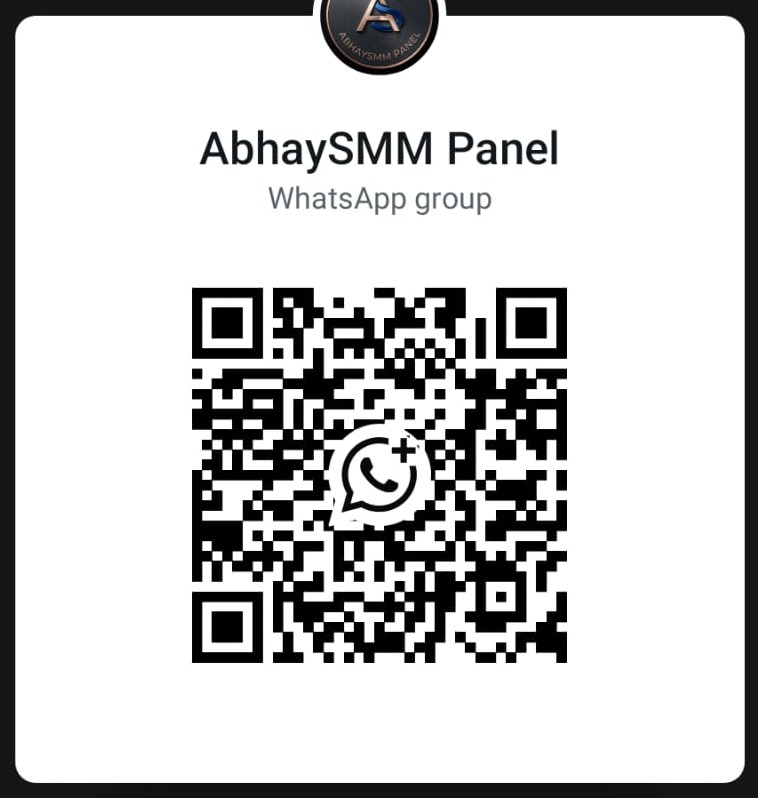
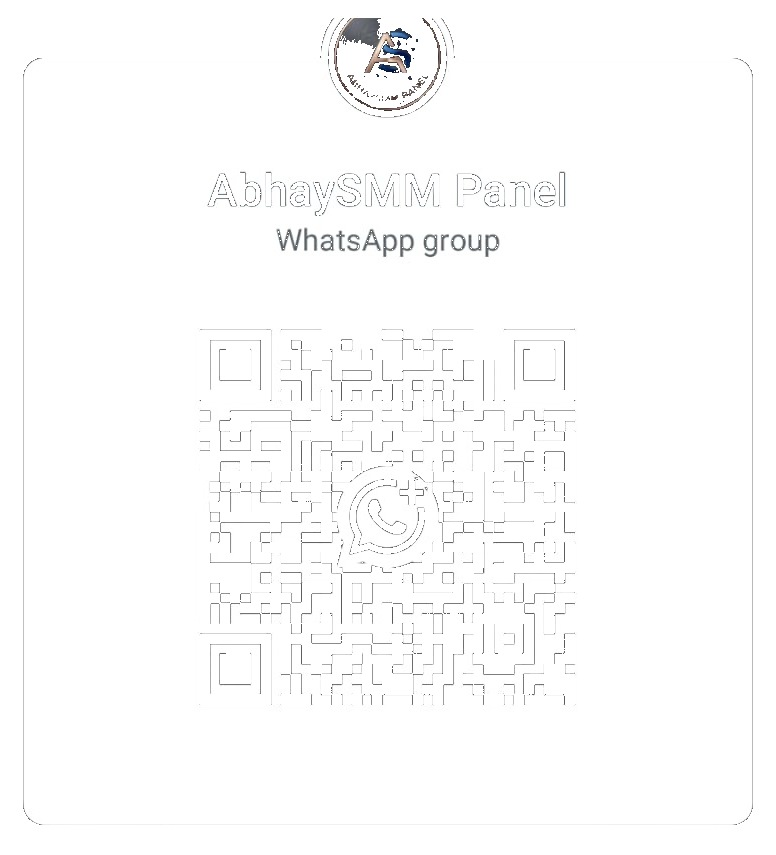
Fix WhatsApp join popup QR image and modal design.
Tight white QR card, clean frame, and cache-bust so the old phone screenshot is gone.

Changed region(s): [[0.2427, 0.3609, 0.7586, 0.8421], [0.0, 0.0, 1.0, 1.0]]

diff --git a/src/styles/whatsappGroupPopup.css b/src/styles/whatsappGroupPopup.css
@@ -2,10 +2,6 @@
 
 #whatsapp-group-join-popup.wa-join-popup {
   position: fixed !important;
-  top: 0 !important;
-  right: 0 !important;
-  bottom: 0 !important;
-  left: 0 !important;
   inset: 0 !important;
   z-index: 2147483000 !important;
   display: flex !important;
@@ -15,10 +11,10 @@
   height: 100dvh !important;
   min-height: 100vh !important;
   margin: 0 !important;
-  padding: max(1rem, env(safe-area-inset-top, 0px))
-    max(1rem, env(safe-area-inset-right, 0px))
-    max(1rem, env(safe-area-inset-bottom, 0px))
-    max(1rem, env(safe-area-inset-left, 0px)) !important;
+  padding: max(0.85rem, env(safe-area-inset-top, 0px))
+    max(0.85rem, env(safe-area-inset-right, 0px))
+    max(0.85rem, env(safe-area-inset-bottom, 0px))
+    max(0.85rem, env(safe-area-inset-left, 0px)) !important;
   box-sizing: border-box !important;
   opacity: 0;
   pointer-events: none;
@@ -37,31 +33,29 @@
   border: none;
   padding: 0;
   margin: 0;
-  background: rgba(2, 8, 23, 0.78);
-  backdrop-filter: blur(8px);
-  -webkit-backdrop-filter: blur(8px);
+  background: rgba(2, 8, 23, 0.8);
+  backdrop-filter: blur(10px);
+  -webkit-backdrop-filter: blur(10px);
   cursor: pointer;
 }
 
 #whatsapp-group-join-popup .wa-join-popup__card {
   position: relative;
   z-index: 1;
-  width: min(100%, 22.5rem);
-  max-height: min(90dvh, 40rem);
+  width: min(100%, 21rem);
+  max-height: min(92dvh, 38rem);
   overflow: auto;
   margin: 0 auto;
-  padding: 1.35rem 1.25rem 1.25rem;
-  border-radius: 1.15rem;
-  background: linear-gradient(160deg, #0b1f17 0%, #0f172a 48%, #07111f 100%);
-  border: 1px solid rgba(37, 211, 102, 0.35);
-  box-shadow:
-    0 24px 64px rgba(0, 0, 0, 0.55),
-    0 0 40px rgba(37, 211, 102, 0.12);
+  padding: 1.25rem 1.15rem 1.15rem;
+  border-radius: 1.25rem;
+  background: #0f172a;
+  border: 1px solid rgba(37, 211, 102, 0.28);
+  box-shadow: 0 20px 48px rgba(0, 0, 0, 0.5);
   text-align: center;
-  /* Center pop: scale only — no slide from top */
-  transform: scale(0.92);
-  opacity: 0.85;
+  transform: scale(0.94);
+  opacity: 0.9;
   transition: transform 200ms ease, opacity 200ms ease;
+  -webkit-overflow-scrolling: touch;
 }
 
 #whatsapp-group-join-popup.wa-join-popup--visible .wa-join-popup__card {
@@ -71,10 +65,10 @@
 
 #whatsapp-group-join-popup .wa-join-popup__close {
   position: absolute;
-  top: 0.45rem;
-  right: 0.45rem;
-  width: 2rem;
-  height: 2rem;
+  top: 0.55rem;
+  right: 0.55rem;
+  width: 2.1rem;
+  height: 2.1rem;
   border: none;
   border-radius: 999px;
   background: rgba(255, 255, 255, 0.08);
@@ -85,6 +79,7 @@
   display: flex;
   align-items: center;
   justify-content: center;
+  z-index: 2;
 }
 
 #whatsapp-group-join-popup .wa-join-popup__close:hover {
@@ -92,58 +87,80 @@
 }
 
 #whatsapp-group-join-popup .wa-join-popup__badge {
-  display: inline-block;
-  margin-bottom: 0.55rem;
-  padding: 0.2rem 0.65rem;
+  display: inline-flex;
+  align-items: center;
+  justify-content: center;
+  gap: 0.35rem;
+  margin: 0.15rem 0 0.65rem;
+  padding: 0.28rem 0.7rem;
   border-radius: 999px;
   font-size: 0.7rem;
   font-weight: 800;
-  letter-spacing: 0.08em;
+  letter-spacing: 0.06em;
   text-transform: uppercase;
   color: #dcfce7;
-  background: rgba(37, 211, 102, 0.18);
-  border: 1px solid rgba(37, 211, 102, 0.35);
+  background: rgba(37, 211, 102, 0.16);
+  border: 1px solid rgba(37, 211, 102, 0.32);
 }
 
 #whatsapp-group-join-popup .wa-join-popup__title {
-  margin: 0 0 0.45rem;
-  font-size: clamp(1.15rem, 4vw, 1.35rem);
+  margin: 0 0 0.4rem;
+  font-size: clamp(1.15rem, 4.2vw, 1.35rem);
   font-weight: 800;
   color: #f8fafc;
   line-height: 1.25;
-  padding-inline: 1.25rem;
+  padding-inline: 1.5rem;
 }
 
 #whatsapp-group-join-popup .wa-join-popup__text {
-  margin: 0 0 1rem;
-  font-size: 0.9rem;
+  margin: 0 0 0.95rem;
+  font-size: 0.875rem;
   line-height: 1.5;
   color: #94a3b8;
+  padding-inline: 0.25rem;
 }
 
-/* Cropped QR card asset (no tall phone letterboxing) */
+/* White frame — image sits flush, no dark letterbox */
+#whatsapp-group-join-popup .wa-join-popup__qr-wrap {
+  width: min(100%, 13.5rem);
+  margin: 0 auto 0.65rem;
+  padding: 0.4rem;
+  border-radius: 1rem;
+  background: #fff;
+  border: 1px solid rgba(226, 232, 240, 0.9);
+  box-shadow: 0 8px 24px rgba(0, 0, 0, 0.25);
+  box-sizing: border-box;
+}
+
 #whatsapp-group-join-popup .wa-join-popup__qr {
   display: block;
-  width: min(100%, 12rem);
+  width: 100%;
   height: auto;
-  aspect-ratio: 758 / 798;
-  margin: 0 auto 0.65rem;
-  padding: 0.45rem;
-  border-radius: 0.85rem;
-  border: 1px solid rgba(148, 163, 184, 0.25);
+  aspect-ratio: 776 / 855;
+  margin: 0;
+  padding: 0;
+  border: none;
+  border-radius: 0.65rem;
   background: #fff;
   object-fit: contain;
   object-position: center;
-  box-sizing: border-box;
+}
+
+#whatsapp-group-join-popup .wa-join-popup__hint {
+  margin: 0 0 0.9rem;
+  font-size: 0.75rem;
+  line-height: 1.35;
+  color: #94a3b8;
 }
 
 #whatsapp-group-join-popup .wa-join-popup__cta {
   display: inline-flex;
   align-items: center;
   justify-content: center;
+  gap: 0.5rem;
   width: 100%;
-  min-height: 2.75rem;
-  padding: 0.65rem 1rem;
+  min-height: 2.85rem;
+  padding: 0.7rem 1rem;
   border-radius: 999px;
   background: #25d366;
   color: #fff;
@@ -151,7 +168,7 @@
   font-weight: 800;
   text-decoration: none;
   box-shadow: 0 4px 14px rgba(37, 211, 102, 0.28);
-  transition: transform 0.18s ease, box-shadow 0.18s ease, filter 0.18s ease;
+  transition: transform 0.15s ease, box-shadow 0.15s ease, filter 0.15s ease;
 }
 
 #whatsapp-group-join-popup .wa-join-popup__cta:hover {
@@ -162,10 +179,23 @@
   text-decoration: none;
 }
 
-#whatsapp-group-join-popup .wa-join-popup__hint {
-  margin: 0 0 1rem;
-  font-size: 0.75rem;
-  color: #64748b;
+#whatsapp-group-join-popup .wa-join-popup__cta:active {
+  transform: translateY(0);
+}
+
+@media (max-width: 420px) {
+  #whatsapp-group-join-popup .wa-join-popup__card {
+    width: min(100%, 20rem);
+    padding: 1.1rem 0.95rem 1rem;
+  }
+
+  #whatsapp-group-join-popup .wa-join-popup__qr-wrap {
+    width: min(100%, 12.25rem);
+  }
+
+  #whatsapp-group-join-popup .wa-join-popup__cta {
+    min-height: 3rem;
+  }
 }
 
 @media (prefers-reduced-motion: reduce) {

diff --git a/src/components/WhatsAppGroupPopup.js b/src/components/WhatsAppGroupPopup.js
@@ -10,6 +10,8 @@ const STORAGE_KEY = 'abhaysmm_wa_join_popup_dismissed_at';
 const DISMISS_MS = 24 * 60 * 60 * 1000;
 const SHOW_DELAY_MS = 900;
 const POPUP_ID = 'whatsapp-group-join-popup';
+/** Bump when QR asset changes so browsers skip stale cache. */
+const QR_CACHE_BUST = 'v3';
 
 function wasDismissedRecently() {
   try {
@@ -44,12 +46,21 @@ const PUBLIC_PATHS = new Set([
   '/contact',
 ]);
 
+const WhatsAppIcon = ({ size = 18 }) => (
+  <svg width={size} height={size} viewBox="0 0 24 24" aria-hidden="true" focusable="false">
+    <path
+      fill="currentColor"
+      d="M17.472 14.382c-.297-.149-1.758-.867-2.03-.967-.273-.099-.471-.148-.67.15-.197.297-.767.966-.94 1.164-.173.199-.347.223-.644.075-.297-.15-1.255-.463-2.39-1.475-.883-.788-1.48-1.761-1.653-2.059-.173-.297-.018-.458.13-.606.134-.133.298-.347.446-.52.149-.174.198-.298.298-.497.099-.198.05-.371-.025-.52-.075-.149-.669-1.612-.916-2.207-.242-.579-.487-.5-.669-.51-.173-.008-.371-.01-.57-.01-.198 0-.52.074-.792.372-.272.297-1.04 1.016-1.04 2.479 0 1.462 1.065 2.875 1.213 3.074.149.198 2.096 3.2 5.077 4.487.709.306 1.262.489 1.694.625.712.227 1.36.195 1.871.118.571-.085 1.758-.719 2.006-1.413.248-.694.248-1.289.173-1.413-.074-.124-.272-.198-.57-.347m-5.421 7.403h-.004a9.87 9.87 0 01-5.031-1.378l-.361-.214-3.741.982.998-3.648-.235-.374a9.86 9.86 0 01-1.51-5.26c.001-5.45 4.436-9.884 9.888-9.884 2.64 0 5.122 1.03 6.988 2.898a9.825 9.825 0 012.893 6.994c-.003 5.45-4.435 9.884-9.885 9.884m8.413-18.297A11.815 11.815 0 0012.05 0C5.495 0 .16 5.335.157 11.892c0 2.096.547 4.142 1.588 5.945L.057 24l6.305-1.654a11.882 11.882 0 005.683 1.448h.005c6.554 0 11.89-5.335 11.893-11.893a11.821 11.821 0 00-3.48-8.413z"
+    />
+  </svg>
+);
+
 /** True center-screen WhatsApp join modal (portaled to body). */
 const WhatsAppGroupPopup = () => {
   const location = useLocation();
   const { settings } = useSettings();
   const groupUrl = resolveGroupUrl(settings);
-  const qrSrc = `${process.env.PUBLIC_URL || ''}${BRAND.whatsappQr}`;
+  const qrSrc = `${process.env.PUBLIC_URL || ''}${BRAND.whatsappQr}?${QR_CACHE_BUST}`;
 
   const [open, setOpen] = useState(false);
   const [visible, setVisible] = useState(false);
@@ -140,23 +151,28 @@ const WhatsAppGroupPopup = () => {
           ×
         </button>
 
-        <div className="wa-join-popup__badge" aria-hidden="true">
-          WhatsApp
+        <div className="wa-join-popup__badge">
+          <WhatsAppIcon size={14} />
+          <span>WhatsApp</span>
         </div>
         <h2 id={`${POPUP_ID}-title`} className="wa-join-popup__title">
           Join our WhatsApp Group
         </h2>
         <p className="wa-join-popup__text">
-          Get offers, payment updates, new services, and quick support from the {BRAND.shortName} team.
+          Offers, payment updates, new services, and quick support from the {BRAND.shortName} team.
         </p>
 
-        <img
-          src={qrSrc}
-          alt="WhatsApp group QR code"
-          className="wa-join-popup__qr"
-          loading="eager"
-          decoding="async"
-        />
+        <div className="wa-join-popup__qr-wrap">
+          <img
+            src={qrSrc}
+            alt="WhatsApp group QR code"
+            className="wa-join-popup__qr"
+            width={776}
+            height={855}
+            loading="eager"
+            decoding="async"
+          />
+        </div>
         <p className="wa-join-popup__hint">Scan with WhatsApp camera, or tap Join Now</p>
 
         <a
@@ -166,7 +182,8 @@ const WhatsAppGroupPopup = () => {
           className="wa-join-popup__cta"
           onClick={() => closePopup(true)}
         >
-          🚀 Join Now
+          <WhatsAppIcon size={18} />
+          <span>Join Now</span>
         </a>
       </div>
     </div>,

diff --git a/src/components/landing/LandingWhatsAppGroup.js b/src/components/landing/LandingWhatsAppGroup.js
@@ -2,7 +2,7 @@ import React from 'react';
 import { useSettings } from '../../contexts/SettingsContext';
 import { BRAND } from '../../config/brand';
 
-const whatsappQrSrc = `${process.env.PUBLIC_URL}${BRAND.whatsappQr}`;
+const whatsappQrSrc = `${process.env.PUBLIC_URL}${BRAND.whatsappQr}?v3`;
 
 function resolveWhatsAppGroupUrl(settings) {
   const url =
@@ -65,8 +65,8 @@ const LandingWhatsAppGroup = () => {
                   className="landing-whatsapp-group__qr"
                   loading="lazy"
                   decoding="async"
-                  width={758}
-                  height={798}
+                  width={776}
+                  height={855}
                 />
               </div>
               <figcaption className="landing-whatsapp-group__qr-caption">

diff --git a/src/styles/landingAppCommunity.css b/src/styles/landingAppCommunity.css
@@ -203,7 +203,7 @@
   display: block;
   width: 100%;
   height: auto;
-  aspect-ratio: 758 / 798;
+  aspect-ratio: 1 / 1.06;
   object-fit: contain;
   object-position: center;
   border-radius: 0.55rem;
